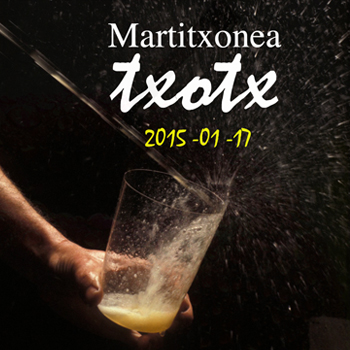
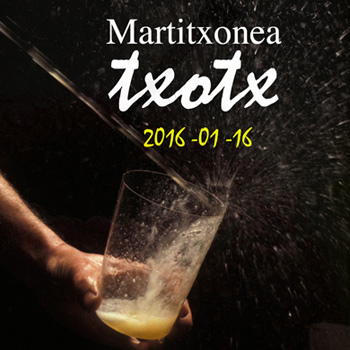
2016

diff --git a/es/index.html b/es/index.html
@@ -135,7 +135,7 @@
                   <div class="thumbnail thumbnail-1">
                 <h3>Temporada de txotx</h3>
                 <img  src="../img/txotx-2014.jpg" alt="txotx 2014">
-                <section> <strong>17-01-2015 / 30-04-2015</strong>
+                <section> <strong>16-01-2016 / 01-05-2016</strong>
                       <p>Temporada para degustar sidra de las kupelas.
                       La sidrería  martitxonea os ofrece sidra natural de calidad.</p>
                       <!--<a href="#" class="btn btn-1">Gehiago irakurri</a> --></section>

diff --git a/index.html b/index.html
@@ -135,7 +135,7 @@
                   <div class="thumbnail thumbnail-1">
                 <h3>Txotx Garaia</h3>
                 <img  src="img/txotx-2014.jpg" alt="txotx 2014">
-                <section> <strong>2015-01-17 / 2015-04-30</strong>
+                <section> <strong>2016-01-16 / 2016-05-01</strong>
                       <p>Sagardoa kupeletik dastatzeko garaia.
                       Kalitatezko sagardo naturala eskaintzen dizue Martitxonea sagardotegiak. </p>
                       <!--<a href="#" class="btn btn-1">Gehiago irakurri</a> --></section>
